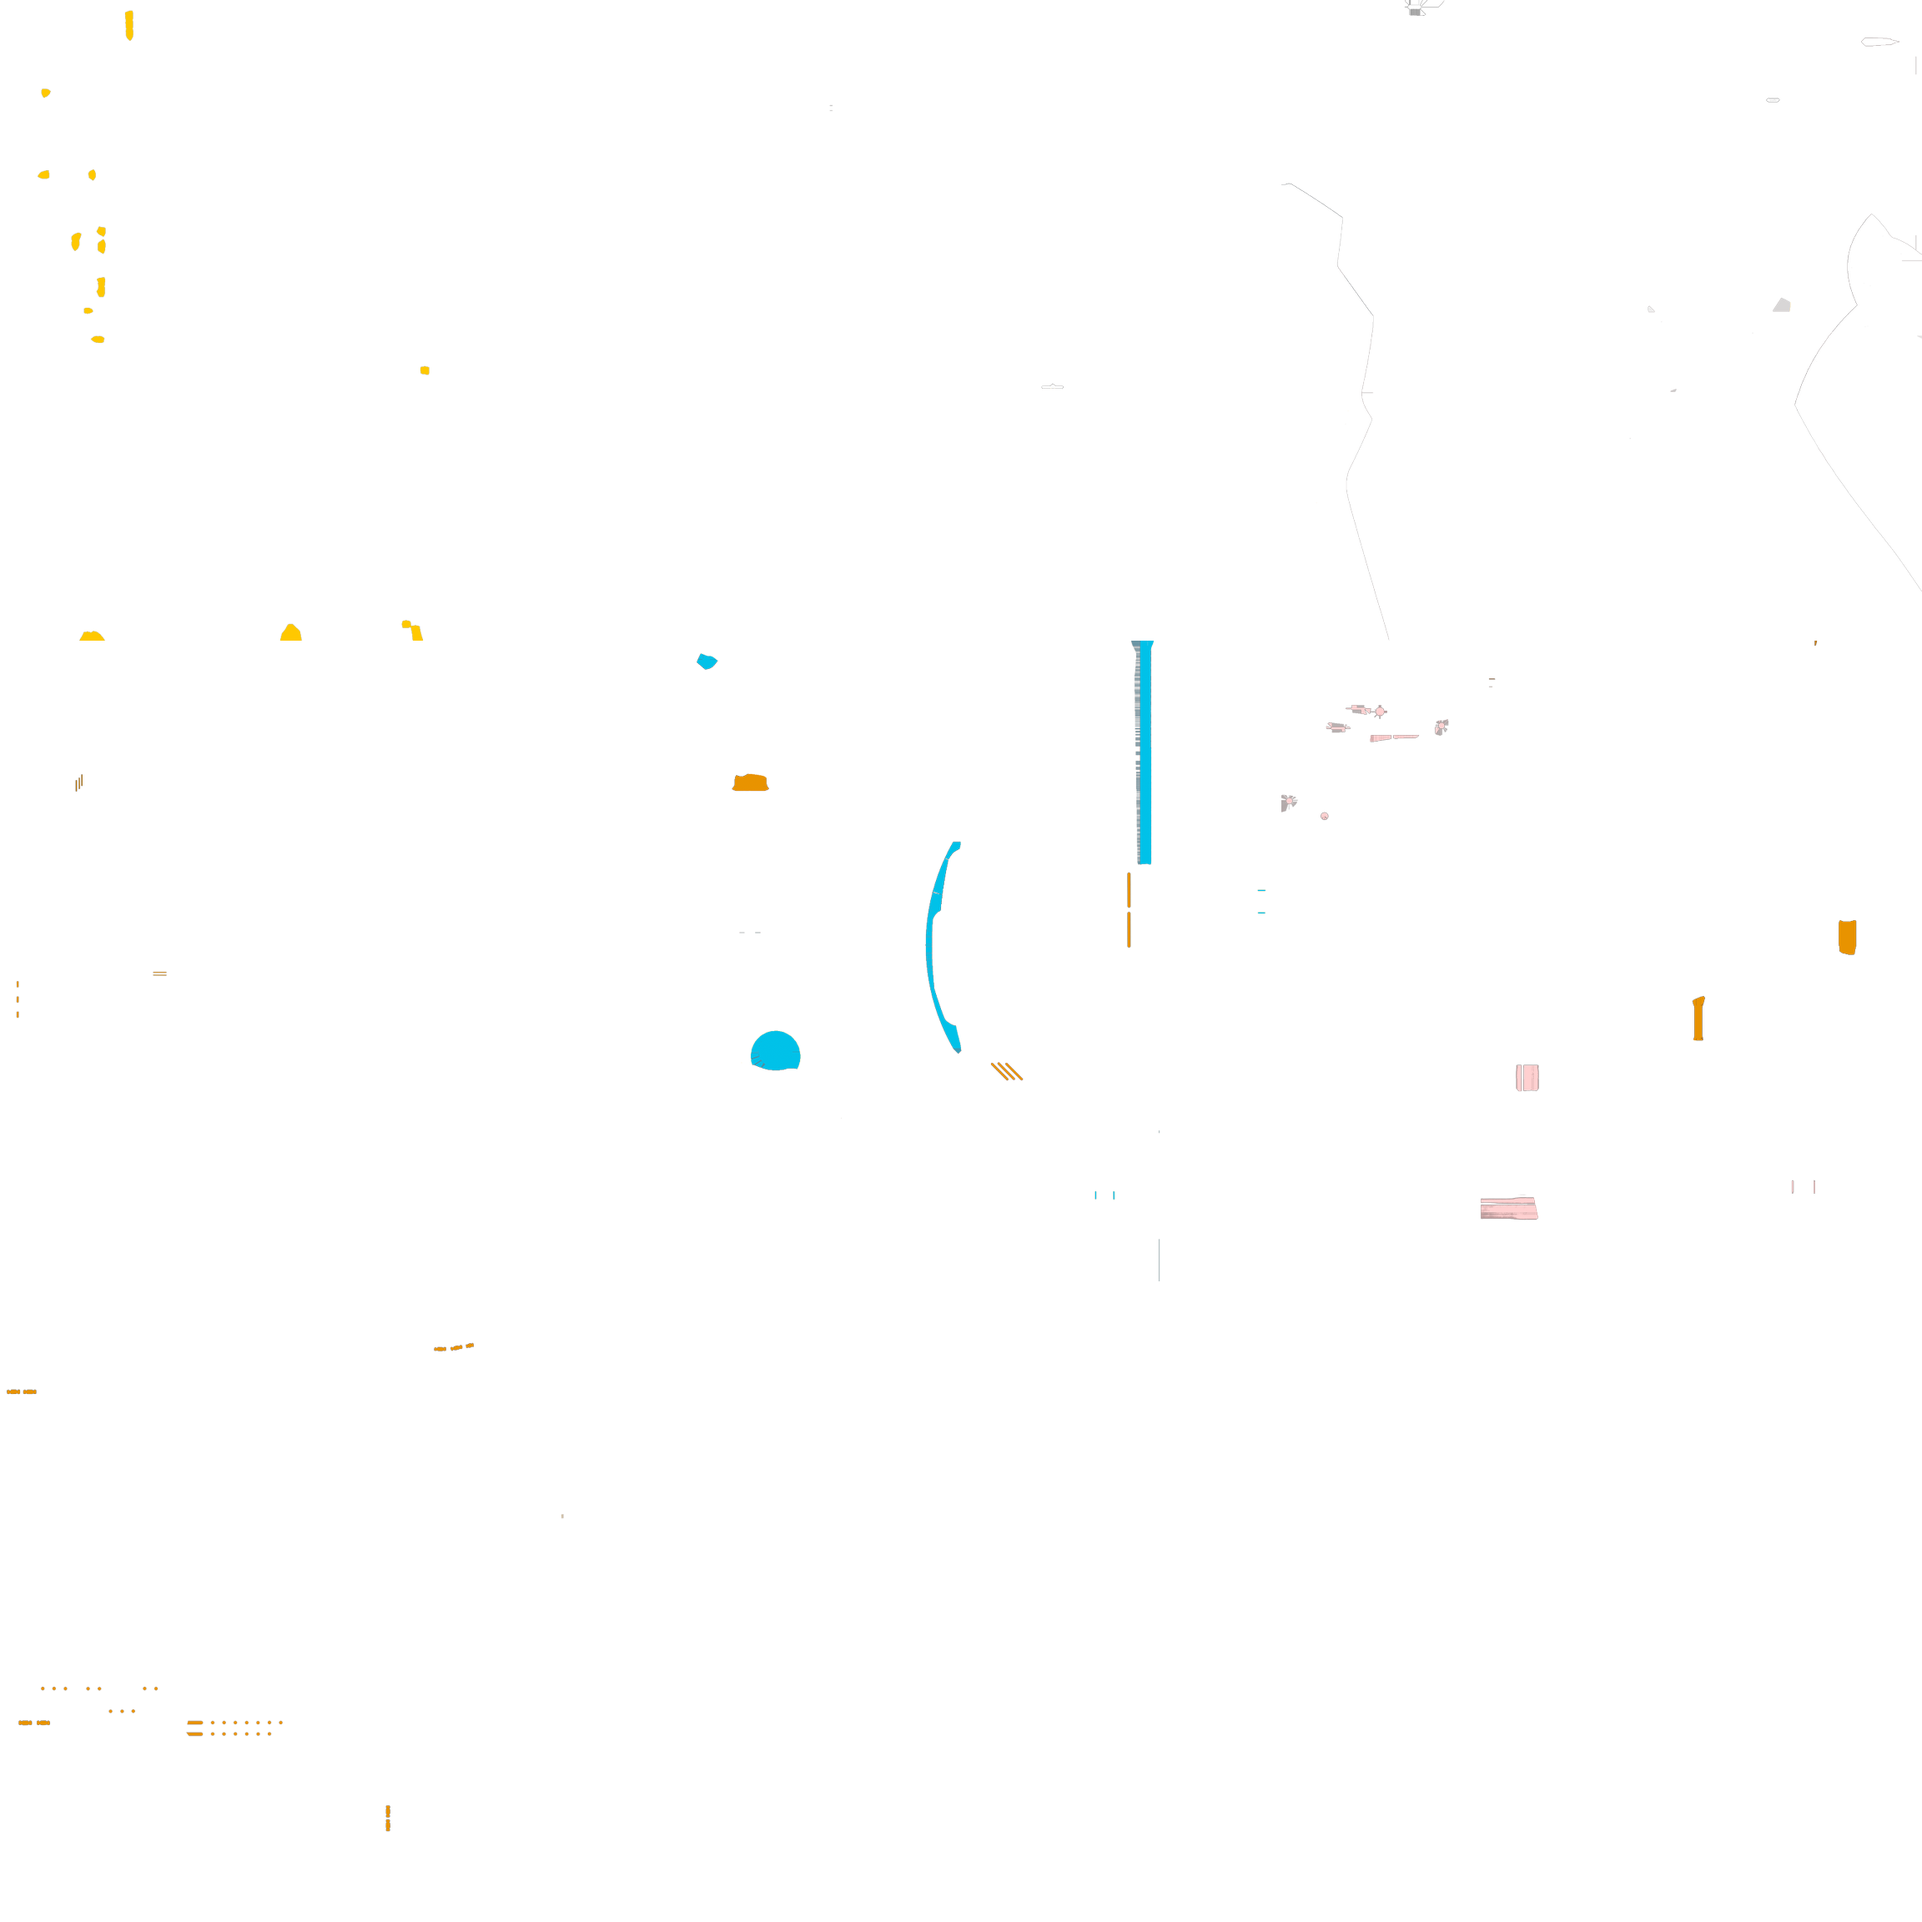
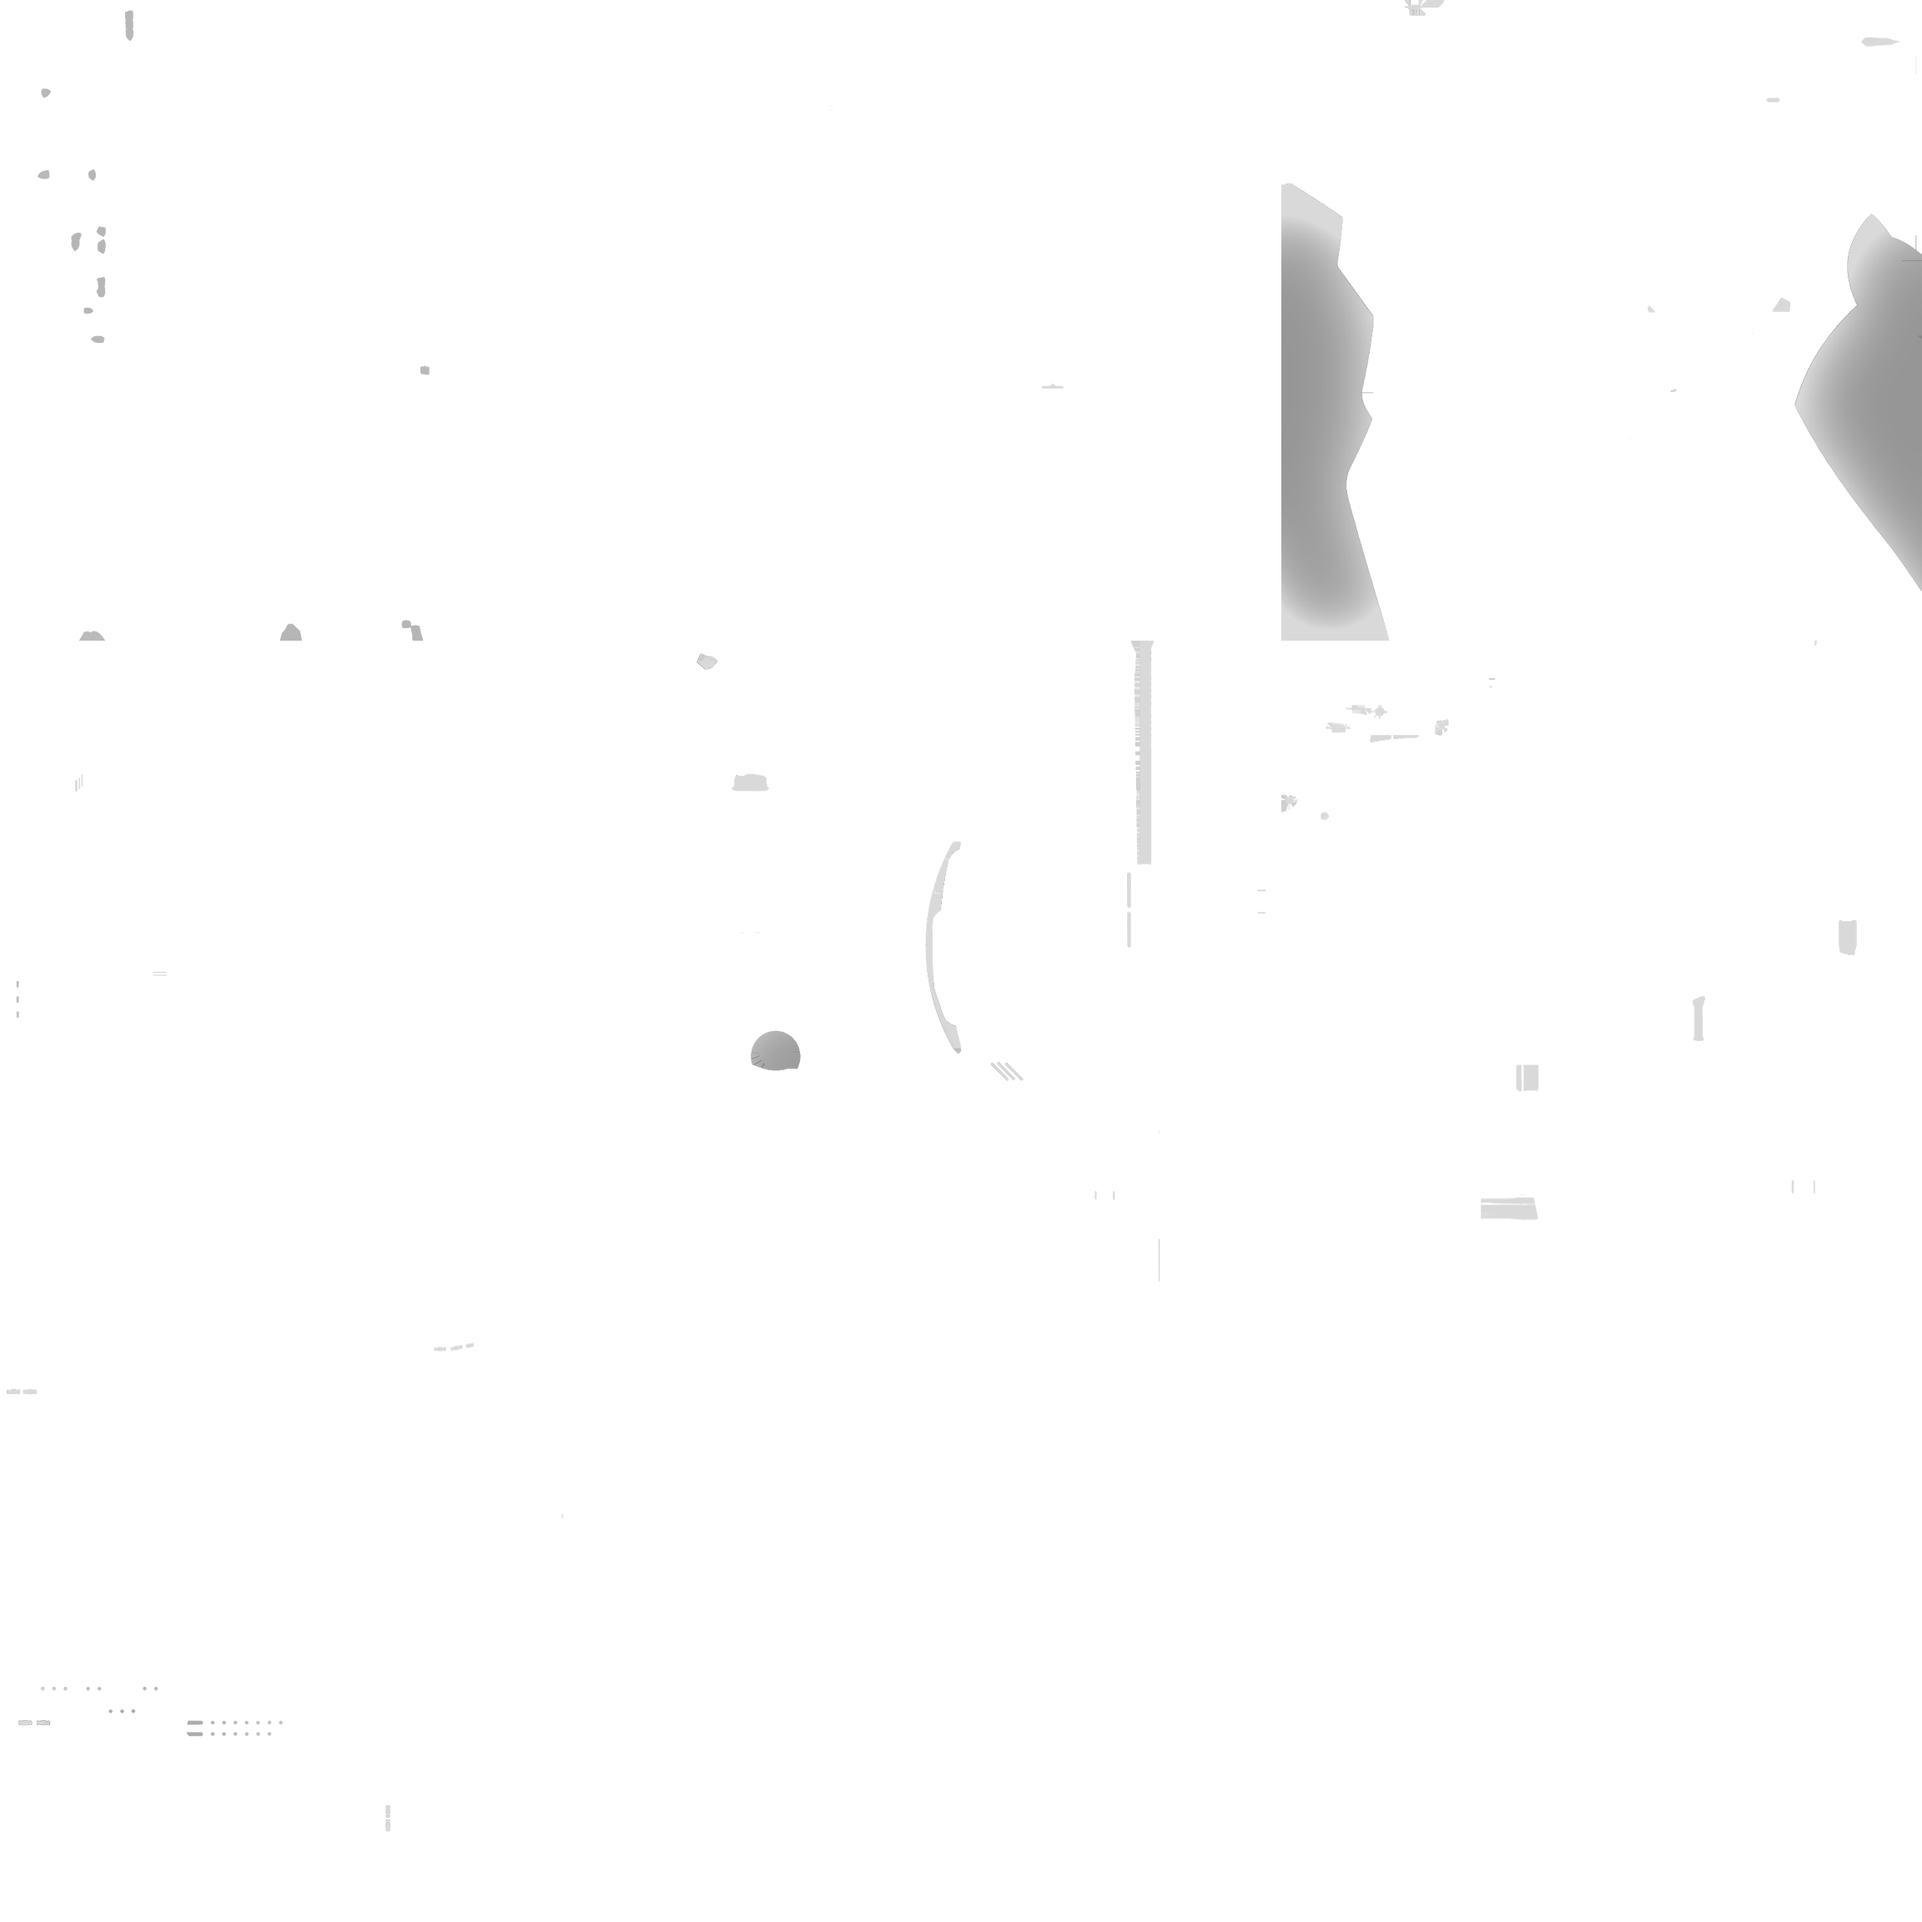
The enemy dreadnought in one even steel grey, not a patchwork: the procedural grime (big cloudy blotches) is off on it; its roughness / metal / AO from the texture (different on every part) replaced by one material (0.46 / 0.75, AO at 40 %); its albedo atlas flattened to its small detail (tools/buil
Claude-Session: https://claude.ai/code/session_01TZZTikXYUSmKFCeJbiUCDn

diff --git a/js/shaders.js b/js/shaders.js
@@ -862,6 +862,7 @@ fn cutAway(i: VO, inst: Inst) -> vec2f {
     if (texSet == 7) {   // the dreadnought in ONE colour: steel grey, only the texture's light/dark left in it (the panel detail stays)
       let lum = dot(pow(ta.rgb, vec3f(2.2)), vec3f(0.2126, 0.7152, 0.0722));
       base = vec3f(0.16, 0.165, 0.175) * (0.45 + 1.4 * sqrt(lum));
+      rough = 0.46; metal = 0.75; texAO = mix(1.0, texAO, 0.4);   // one material all over (its texture's roughness / metal / AO were a patchwork from part to part; the albedo is flattened to its small detail: tools/build_rifles.py flatten_detail)
     }
     if (texSet == 1) { metal = 0.3; rough = 0.4; }      // Sigma: one material all over, metalness 30 %, roughness 40 % (the texture's colour and AO kept)
     if (texSet == 2) { metal = mix(metal, 1.0, 0.3); }   // VANGUARD: a little more metal (median 0.35 → 0.54, the texture's variation kept)
@@ -1029,7 +1030,7 @@ fn cutAway(i: VO, inst: Inst) -> vec2f {
     if (!hullFlag) { base *= (1.0 + pnl.y * 0.8) * (1.0 - pnl.x * 0.14); }   // (the flagship has its own plating)
     let grime = fbm(i.lp / (det * 7.0) + inst.p1.w, select(4, 2, hullOn));
     let streaks = vnoise(vec3f(i.lp.x / (det * 1.5), i.lp.y / (det * 12.0), i.lp.z / (det * 1.5)));
-    if (!hullFlag) { base *= mix(0.55, 1.08, smoothstep(0.25, 0.75, grime)) * mix(0.85, 1.0, streaks); }   // flagship: one tone per plate
+    if (!hullFlag && texSet != 7) { base *= mix(0.55, 1.08, smoothstep(0.25, 0.75, grime)) * mix(0.85, 1.0, streaks); }   // flagship: one tone per plate   // (the dreadnought: none — its big cloudy blotches made the hull a patchwork)
     if (!hullFlag) { rough = clamp(rough + pnl.y * 0.8, 0.15, 1.0); ao = 1.0 - pnl.x * 0.12; }
   }
   // damage: scorch + glowing cracks

diff --git a/tools/build_rifles.py b/tools/build_rifles.py
@@ -15,7 +15,7 @@ ROOT = os.path.dirname(os.path.dirname(os.path.abspath(__file__)))
 A = lambda p: os.path.join(ROOT, 'assets', p)
 
 ONLY = sys.argv[1:]   # (names given: build only those)
-def build(src, name, grip, R, S, cell, emissive_mask, engines=(), wrap=False, skip=(), empties=None, tex=True):
+def build(src, name, grip, R, S, cell, emissive_mask, engines=(), wrap=False, skip=(), empties=None, tex=True, post=None):
     if ONLY and name not in ONLY: return
     prims, g, blob = load(A(src))
     prims = [p for p in prims if g.materials[p['mat']].name not in skip]
@@ -35,6 +35,7 @@ def build(src, name, grip, R, S, cell, emissive_mask, engines=(), wrap=False, sk
         if pr.metallicRoughnessTexture is not None:
             orm.paste(image(g, blob, g.textures[pr.metallicRoughnessTexture.index].source).convert('RGB').resize((cell, cell), Image.LANCZOS), (c * cell, r * cell))
     os.makedirs(A('tex'), exist_ok=True)
+    if post: alb = post(alb, cell)
     if tex: alb.save(A(f'tex/{name}_albedo.png')); orm.save(A(f'tex/{name}_orm.png'))   # (an LOD shares its full model's atlas)
     P, N, U, I = [], [], [], []; base = 0
     for p in prims:
@@ -69,6 +70,17 @@ def build(src, name, grip, R, S, cell, emissive_mask, engines=(), wrap=False, sk
     out.set_binary_blob(data); out.save_binary(A(f'{name}.glb'))
     print(name, 'verts', len(P), 'tris', len(I) // 3, 'bounds', P.min(0).round(2), P.max(0).round(2), 'atlas', alb.size)
 
+def flatten_detail(alb, cell, rad=40):   # one even tone all over: per atlas cell, the light/dark is divided by its own blur (wrapped,
+    # the UVs tile), so the big blotches and the cells' different brightness go and only the small panel detail is left (grey)
+    from PIL import ImageFilter
+    a = np.asarray(alb, np.float32); out = a.copy(); H, W = a.shape[0] // cell, a.shape[1] // cell
+    for r in range(H):
+        for c in range(W):
+            L = a[r * cell:(r + 1) * cell, c * cell:(c + 1) * cell, :3] @ np.array([0.2126, 0.7152, 0.0722], np.float32)
+            T = np.tile(L, (3, 3)); B = np.asarray(Image.fromarray(np.clip(T, 0, 255).astype(np.uint8)).filter(ImageFilter.GaussianBlur(rad)), np.float32)[cell:2 * cell, cell:2 * cell]
+            d = np.clip(L / np.maximum(B, 4.0), 0.55, 1.45); g = np.clip(150.0 * d, 0, 255)
+            out[r * cell:(r + 1) * cell, c * cell:(c + 1) * cell, :3] = g[..., None]
+    return Image.fromarray(out.astype(np.uint8), 'RGBA')
 def emis_tex(g, blob, mt, alb):   # rifle1: the material's own emissive map (luminance)
     if mt.emissiveTexture is None: return Image.new('L', alb.size, 0)
     e = np.asarray(image(g, blob, g.textures[mt.emissiveTexture.index].source).convert('RGB'), np.float32).max(2)
@@ -94,7 +106,7 @@ build('src/light_fighter_dec.glb', 'light_fighter_game', np.array([0, 1.4, 0]), 
 _N = [(x, 16.9, -56.75, r) for (x, r) in [(10.6, 2.9), (16.0, 2.4), (20.1, 1.8), (23.6, 1.4)] for x in (x, -x)]
 # (source: blender/decimate_glb.py on assets/src/space_battleship_aquamarine.glb at 0.45 → assets/src/aquamarine_dec.glb, 113k → 51k triangles)
 build('src/aquamarine_dec.glb', 'dreadnought_game', np.array([0, 18.6, 17.6]), np.eye(3), 2.53, 768, emis_tex,
-      engines=[(x, y, z, r) for (x, y, z, r) in _N], wrap=True, skip=('lambert1',), empties={'lance_emitter': (0, 11.25, 103.6)})
+      engines=[(x, y, z, r) for (x, y, z, r) in _N], wrap=True, skip=('lambert1',), empties={'lance_emitter': (0, 11.25, 103.6)}, post=flatten_detail)
 # LODs (2026-10-01, speed): decimated sources (blender/decimate_glb.py) built onto the SAME atlas as their full models
 # light fighter: 72.7k → 7.3k triangles for the near model (above), 1.8k for the far one; dreadnought far / wreck chunks: 5.7k
 build('src/light_fighter_lod.glb', 'light_fighter_game_lod', np.array([0, 1.4, 0]), np.eye(3), 0.75, 1024, emis_tex, engines=[(-0.58, 1.8, -5.58, 0.12), (0.58, 1.8, -5.58, 0.12)], tex=False)
